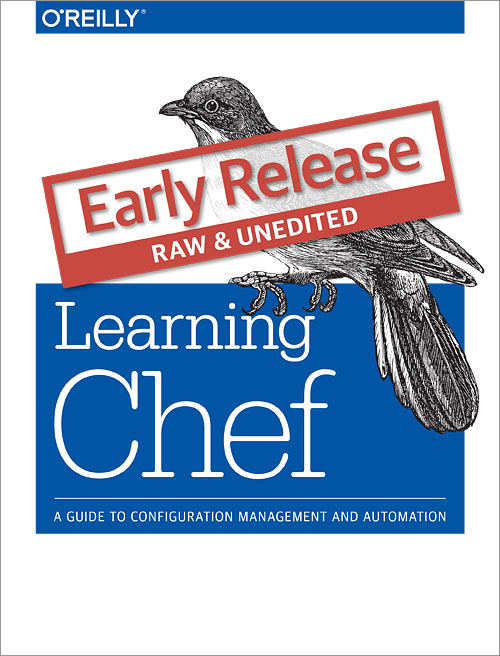
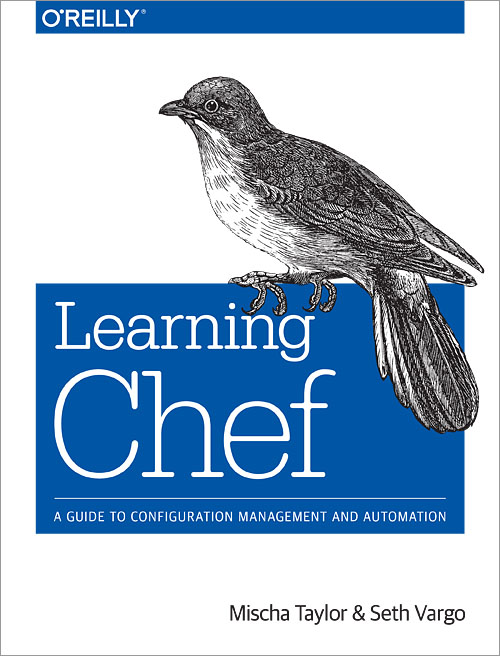
Updating book cover image

diff --git a/index.html b/index.html
@@ -55,7 +55,7 @@
         <div class="container">
             <div class="row">
                 <div class="col-xs-3">
-                    <img class="img-responsive tpad" src="images/rc_lrg_75.jpg">
+                    <img class="img-responsive tpad" src="images/lrg.jpg">
                 </div>
                 <div class="col-xs-9">
                     <h1>Learning Chef <span class="text-muted">&raquo; A Guide To Configuration Management and Automation</span></h1>

diff --git a/site-template.html b/site-template.html
@@ -55,7 +55,7 @@
         <div class="container">
             <div class="row">
                 <div class="col-xs-3">
-                    <img class="img-responsive tpad" src="images/rc_lrg_75.jpg">
+                    <img class="img-responsive tpad" src="images/lrg.jpg">
                 </div>
                 <div class="col-xs-9">
                     <h1>Learning Chef <span class="text-muted">&raquo; A Guide To Configuration Management and Automation</span></h1>
